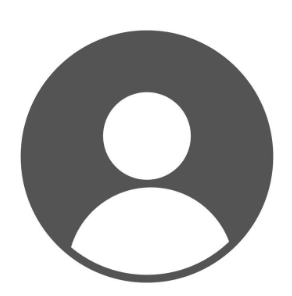
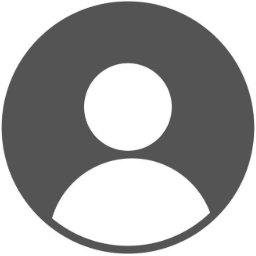
fix profile

Changed region(s): [[0.0, 0.0, 1.0, 1.0], [0.375, 0.5312, 0.4062, 0.5625]]

diff --git a/meerapp/lib/present/page/profile/Widgets/profile_overview.dart b/meerapp/lib/present/page/profile/Widgets/profile_overview.dart
@@ -76,16 +76,30 @@ class ProfileOverView extends StatelessWidget {
             Stack(
               clipBehavior: Clip.none,
               children: [
-                Container(
-                  height: 250.h,
-                  decoration: BoxDecoration(
-                    image: DecorationImage(
-                        colorFilter: ColorFilter.mode(
-                            Colors.black.withOpacity(0.3), BlendMode.darken),
-                        image: MyImageProvider(avatarImageURI, const AssetImage("asset/defaultavatar.png")),
-                        fit: BoxFit.cover),
-                  ),
-                ),
+                avatarImageURI != null
+                    ? Container(
+                        height: 250.h,
+                        decoration: BoxDecoration(
+                          gradient: LinearGradient(
+                            colors: meerColorGradientActive2,
+                          ),
+                          image: DecorationImage(
+                              colorFilter: ColorFilter.mode(
+                                  Colors.black.withOpacity(0.3),
+                                  BlendMode.darken),
+                              image: MyImageProvider(avatarImageURI,
+                                  const AssetImage("asset/defaultavatar.png")),
+                              fit: BoxFit.cover),
+                        ),
+                      )
+                    : Container(
+                        height: 250.h,
+                        decoration: BoxDecoration(
+                          gradient: LinearGradient(
+                            colors: meerColorGradientActive2,
+                          ),
+                        ),
+                      ),
                 Positioned.fill(
                     top: 0,
                     right: 0,
@@ -146,8 +160,10 @@ class ProfileOverView extends StatelessWidget {
                             border: Border.all(color: Colors.white, width: 3),
                             image: DecorationImage(
                                 alignment: Alignment(0, -0.8.h),
-                                image: MyImageProvider(avatarImageURI,
-                                    const AssetImage("asset/avt1.jpg")),
+                                image: MyImageProvider(
+                                    avatarImageURI,
+                                    const AssetImage(
+                                        "asset/avatardefault.png")),
                                 fit: BoxFit.cover),
                           ),
                         ),

diff --git a/meerapp/lib/config/colorconfig.dart b/meerapp/lib/config/colorconfig.dart
@@ -34,3 +34,7 @@ const meerColorGradientActive = [
   Color(0xFFF8D49D),
   Color(0xFFFFFFFF)
 ];
+const meerColorGradientActive2 = [
+  Color(0xFFF8D49D),
+  Color(0xFF5AA469),
+];
